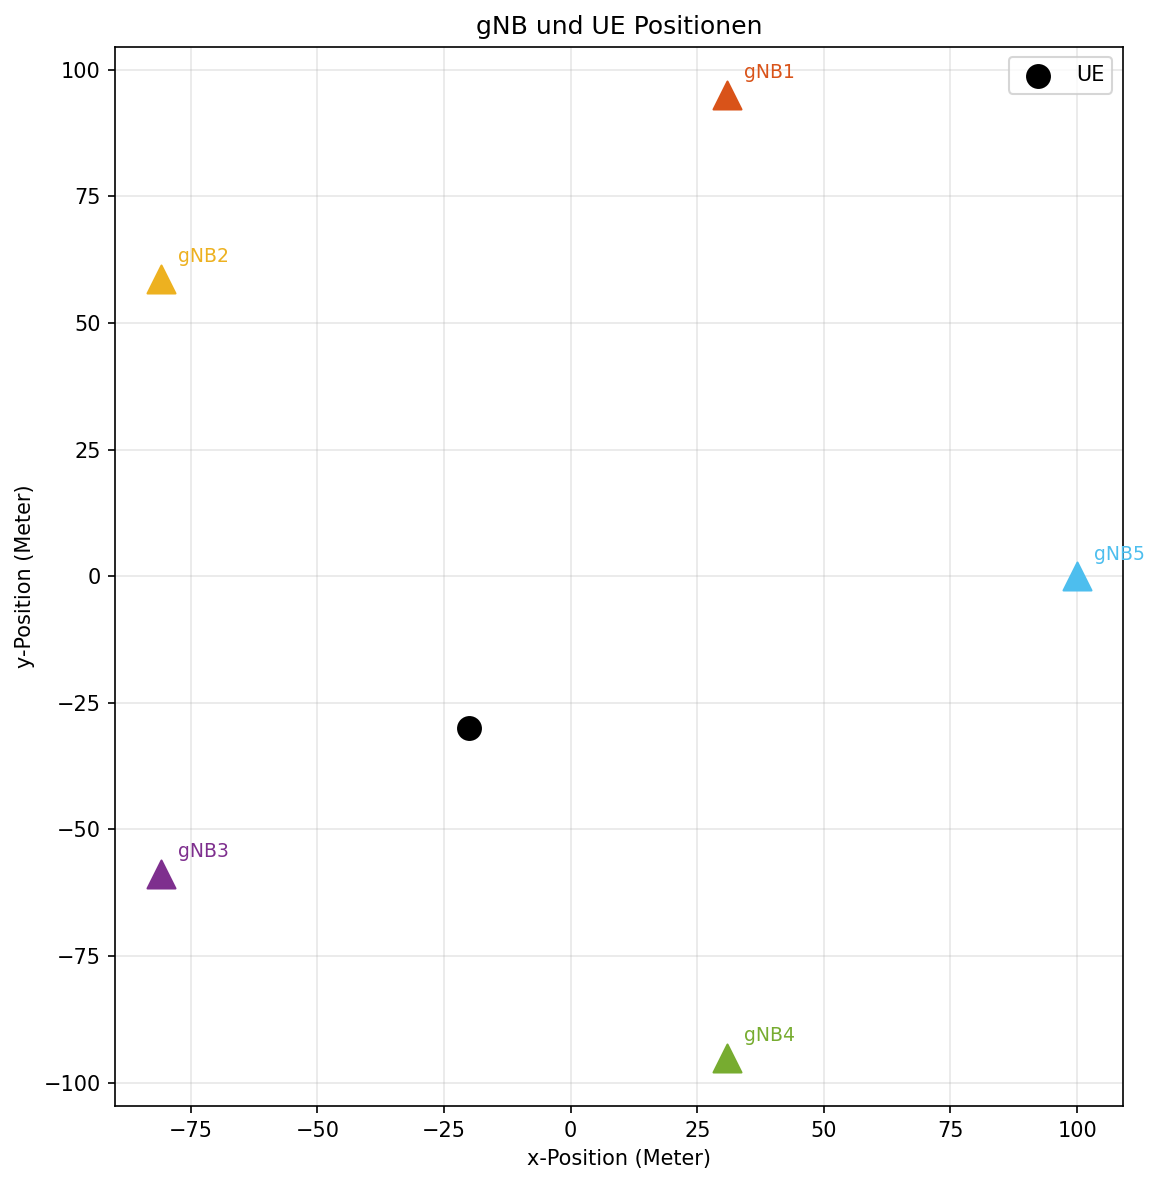
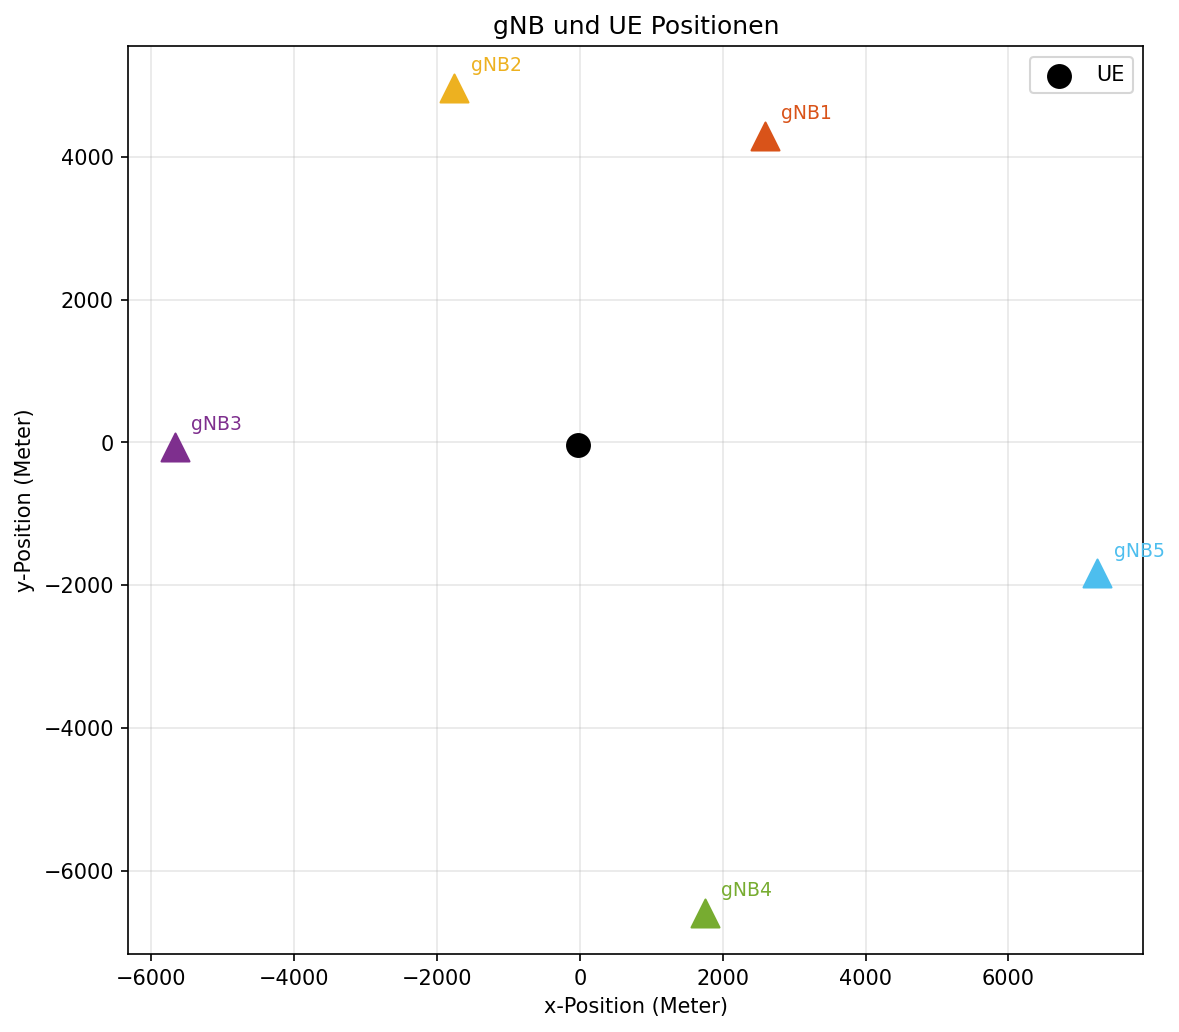
Plots optimiert

diff --git a/5G/positioning_system/visualization/plots.py b/5G/positioning_system/visualization/plots.py
@@ -37,15 +37,15 @@ def plotPRSCorr(corr_list, sample_rate, gnb_labels=None):
     fig, ax = plt.subplots(figsize=(10, 4))
     t = np.arange(len(corr_list[0])) / sample_rate * 1e6  # µs
     for i, corr in enumerate(corr_list):
-        lbl = gnb_labels[i] if gnb_labels else f"gNB{i+1}"
+        lbl =  f"Basisstation {i+1}"
         ax.plot(t, np.abs(corr), color=_COLORS[i%len(_COLORS)],
                 lw=1.5, label=lbl)
         peak = np.argmax(np.abs(corr))
         ax.scatter(t[peak], np.abs(corr[peak]),
                    color=_COLORS[i%len(_COLORS)], s=60, zorder=5)
-    ax.set_xlabel("Zeit (µs)"); ax.set_ylabel("Korrelationsbetrag")
-    ax.set_title("PRS-Kreuzkorrelation aller gNBs")
-    ax.legend(fontsize=8); ax.grid(True, alpha=0.3)
+    ax.set_xlabel("Zeit (µs)", fontsize=11); ax.set_ylabel("Korrelationsbetrag", fontsize=11)
+    ax.set_title("PRS-Kreuzkorrelation aller Basisstationen", fontsize=11)
+    ax.legend(fontsize=11); ax.grid(True, alpha=0.3)
     plt.tight_layout()
     if config.VIZ_SAVE_PLOTS:
         _save(fig, "prs_correlation.png")
@@ -84,10 +84,10 @@ def plotPositionsAndHyperbolaCurves(gnb_pos, ue_pos_true, est_pos,
                label=f"Geschätzte Position")
 
     err = np.linalg.norm(est_pos[:2] - ue_pos_true[:2])
-    ax.set_xlabel("x-Position (Meter)")
-    ax.set_ylabel("y-Position (Meter)")
+    ax.set_xlabel("x-Position (Meter)", fontsize=11)
+    ax.set_ylabel("y-Position (Meter)", fontsize=11)
     ax.set_title(f"DL-TDoA mit PRS – Positionierungsfehler: {err:.1f} m",
-                 fontweight='bold')
+                 fontweight='bold', fontsize=11)
     ax.legend(fontsize=8, loc='upper right')
     ax.grid(True, alpha=0.3)
     plt.tight_layout()
@@ -145,7 +145,7 @@ def plot_prs_slot_overview(
 
     slot_ms = 1000 / (scs_hz / 1e3)   # Slot-Länge in ms
 
-    fig, ax = plt.subplots(figsize=(12, 4))
+    fig, ax = plt.subplots(figsize=(8, 4))
 
     for gnb_idx in range(n_bs):
         for slot_idx in range(total_slots):
@@ -159,7 +159,7 @@ def plot_prs_slot_overview(
                 ))
                 ax.text(slot_idx + 0.5, gnb_idx + 0.5, 'PRS',
                         ha='center', va='center',
-                        fontsize=8, color='white', fontweight='bold', zorder=3)
+                        fontsize=9, color='white', fontweight='bold', zorder=3)
 
             elif slot_idx not in prs_slot_offsets[:n_bs]:
                 # PDSCH-Slot
@@ -170,16 +170,15 @@ def plot_prs_slot_overview(
 
     # y-Achse: gNB-Labels
     ax.set_yticks(np.arange(n_bs) + 0.5)
-    ax.set_yticklabels([f'gNB {i+1}  (Slot {prs_slot_offsets[i % len(prs_slot_offsets)]})'
-                        for i in range(n_bs)], fontsize=9)
+    ax.set_yticklabels([f'Basisstation {i+1}'
+                        for i in range(n_bs)], fontsize=11)
 
     # x-Achse: Slot-Nummern
     ax.set_xticks(np.arange(total_slots) + 0.5)
     ax.set_xticklabels([str(s) for s in range(total_slots)], fontsize=8)
-    ax.set_xlabel(f"Slot-Index  (Slot-Länge = {slot_ms:.2f} ms)", fontsize=10)
+    ax.set_xlabel(f"Slot-Index", fontsize=11)
     ax.set_title(
-        f"PRS Slot-Konfiguration – 1 Frame ({total_slots * slot_ms:.0f} ms) | "
-        f"SCS = {scs_hz/1e3:.0f} kHz | {n_bs} gNBs",
+        f"PRS Slot-Konfiguration",
         fontsize=11, fontweight='bold'
     )
 
@@ -191,9 +190,9 @@ def plot_prs_slot_overview(
     handles = [plt.Rectangle((0,0), 1, 1, color=_GNB_COLORS[i], alpha=0.85)
                for i in range(n_bs)]
     handles.append(plt.Rectangle((0,0), 1, 1, color='gray', alpha=0.15))
-    labels  = [f'gNB {i+1} PRS' for i in range(n_bs)] + ['PDSCH']
-    ax.legend(handles, labels, loc='upper right', fontsize=8,
-              ncol=min(n_bs+1, 4), framealpha=0.9)
+    labels  = [f'Basisstation {i+1} PRS' for i in range(n_bs)] + ['PDSCH']
+    ax.legend(handles, labels, loc='lower right', fontsize=11,
+              ncol=1, framealpha=0.9)
 
     plt.tight_layout()
     if config.VIZ_SAVE_PLOTS:

diff --git a/5G/positioning_system/position_comparison_5g.py b/5G/positioning_system/position_comparison_5g.py
@@ -13,10 +13,21 @@ from pathlib import Path
 import matplotlib.pyplot as plt
 import numpy as np
 
-BASE_DIR    = Path(__file__).resolve().parent.parent.parent
-RESULTS_FILE = BASE_DIR / "output" / "grid_results.json"
-PLOT_PATH   = BASE_DIR / "output" / "position_comparison_5g.png"
 
+
+file_name = "grid_results_5BS.json"
+suffix    = Path(file_name).stem.removeprefix("grid_results_")
+BASE_DIR    = Path(__file__).resolve().parent.parent.parent
+RESULTS_FILE = BASE_DIR / "output" / file_name
+PLOT_PATH   = BASE_DIR / "output" / "position_comparison_5g_5BS.png"
+
+
+# --- Schriftgrößen ---
+FONTSIZE_STATS  = 11
+FONTSIZE_LABELS = 11
+FONTSIZE_TITLE  = 12
+FONTSIZE_LEGEND = 11
+FONTSIZE_TICKS  = 11
 
 def load_results(path=RESULTS_FILE):
     path = Path(path)
@@ -59,14 +70,14 @@ def plot_positions(results, save_path=PLOT_PATH, show=True):
         ax.plot(
             [agv_x[i], est_x[i]],
             [agv_y[i], est_y[i]],
-            color="gray", alpha=0.4, linewidth=0.8, zorder=1
+            color="gray", alpha=0.5, linewidth=0.8, zorder=1
         )
 
-    ax.set_xlabel("x (m)")
-    ax.set_ylabel("y (m)")
+    ax.set_xlabel("x (m)", fontsize=FONTSIZE_LABELS)
+    ax.set_ylabel("y (m)", fontsize=FONTSIZE_LABELS)
     ax.set_title(
         f"Positionsvergleich: Wahre vs. geschätzte Position "
-        f"(n={len(results)} Messpunkte)"
+        f"(n={len(results)} Messpunkte)", fontsize=FONTSIZE_TITLE
     )
     ax.legend(loc="upper right")
     ax.axis("equal")
@@ -80,7 +91,7 @@ def plot_positions(results, save_path=PLOT_PATH, show=True):
     ax.text(
         0.02, 0.02, stats_text,
         transform=ax.transAxes,
-        fontsize=11,
+        fontsize=FONTSIZE_STATS,
         verticalalignment="bottom",
         bbox=dict(boxstyle="round", facecolor="white", alpha=0.85, edgecolor="gray"),
     )

diff --git a/5G/positioning_system/spatial_error_map_5g.py b/5G/positioning_system/spatial_error_map_5g.py
@@ -26,6 +26,13 @@ COLOR_GOOD   = "#2ca02c"  # grün
 COLOR_MEDIUM = "#f2c94c"  # gelb
 COLOR_BAD    = "#d62728"  # rot
 
+# --- Schriftgrößen ---
+FONTSIZE_ANNOTATION = 7
+FONTSIZE_STATS      = 10
+FONTSIZE_LABELS     = 11
+FONTSIZE_TITLE      = 12
+FONTSIZE_LEGEND     = 10
+FONTSIZE_TICKS      = 10
 
 def load_results(path=RESULTS_FILE):
     path = Path(path)
@@ -80,11 +87,11 @@ def plot_spatial_error_map(results, save_path=MAP_PATH,
                 ha="center", fontsize=8, zorder=4
             )
 
-    ax.set_xlabel("x (m)")
-    ax.set_ylabel("y (m)")
+    ax.set_xlabel("x (m)", fontsize=FONTSIZE_LABELS)
+    ax.set_ylabel("y (m)", fontsize=FONTSIZE_LABELS)
     ax.set_title(
         f"Räumliche Fehlerkarte der 5G DL-TDoA Positionsschätzung "
-        f"(n={len(results)} Messpunkte)"
+        f"(n={len(results)} Messpunkte)", fontsize=FONTSIZE_TITLE
     )
     ax.axis("equal")
     ax.grid(True, alpha=0.3)
@@ -98,7 +105,7 @@ def plot_spatial_error_map(results, save_path=MAP_PATH,
                        label=f"> {HIGH_THRESHOLD:.1f} m (schlecht)"),
     ]
     ax.legend(handles=legend_handles, title="Fehler",
-              loc="upper right")
+              loc="upper right", fontsize=FONTSIZE_LEGEND)
 
     stats_text = (
         f"Mittlerer Fehler: {mean_error:.2f} m\n"
@@ -107,7 +114,7 @@ def plot_spatial_error_map(results, save_path=MAP_PATH,
     ax.text(
         0.02, 0.02, stats_text,
         transform=ax.transAxes,
-        fontsize=11,
+        fontsize=FONTSIZE_STATS,
         verticalalignment="bottom",
         bbox=dict(boxstyle="round", facecolor="white",
                   alpha=0.85, edgecolor="gray"),

diff --git a/5G/positioning_system/ran/simulated.py b/5G/positioning_system/ran/simulated.py
@@ -140,26 +140,24 @@ class SimulatedSource(DataSource):
         """
         n = config.N_BS
         rng = np.random.default_rng(config.RNG_SEED)
-        # positions = np.array([[ 50.0,  0.0, 25.0], [-35,  35, 25.0], [-35,  -35, 25.0]])
         
-        # positions = np.array([[ 50.0,  0.0, 25.0], [15.5,  47.5, 25.0], [-40.45, 29.38, 25.0], [-40.45,  -29.38, 25.0], [15.5,  -47.5, 25.0]])
         N = 5      # Anzahl der Punkte
-        r = 100      # Radius
+        r = 2500      # Radius
 
         positions = []
 
-        for i in range(1, N+1):
+        '''for i in range(1, N+1):
             x = r * np.cos(2 * np.pi * i / N)
             y = r * np.sin(2 * np.pi * i / N)
-            positions.append((x, y, 6.0))             
-        '''for idx in range(1, n+1):
+            positions.append((x, y, 25.0)) '''            
+        for idx in range(1, n+1):
             phi = (idx * 2*np.pi/n
                    + rng.uniform() * 2*np.pi/(2*n)
                    - 2*np.pi/(2*n))
-            r   = rng.integers(0, 101) + idx * 50/n
+            r   = rng.integers(0, 1001) + 4000 + idx * 2500/n
             x   = r * np.cos(phi)
             y   = r * np.sin(phi)
-            positions.append([x, y, config.BS_HEIGHT_M])'''
+            positions.append([x, y, config.BS_HEIGHT_M])
         return np.array(positions)
 
     def _compute_delays(self):
